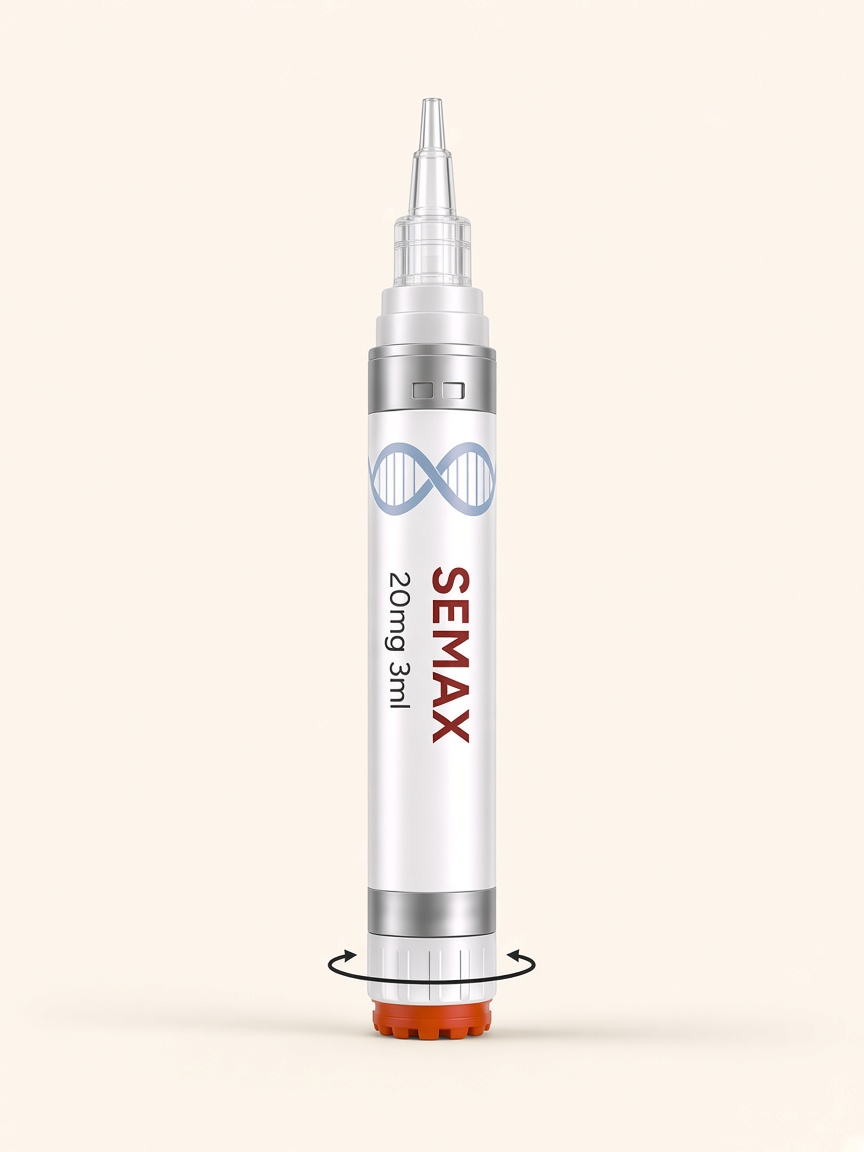
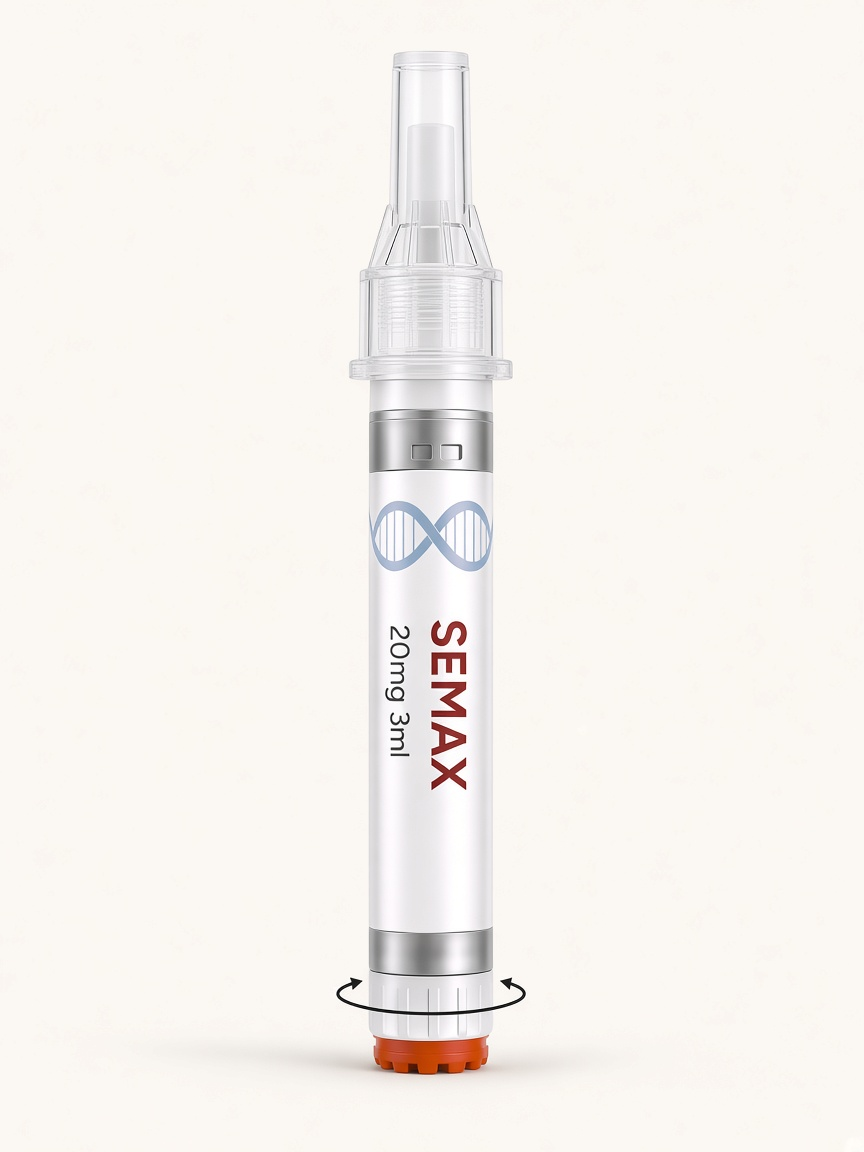
Match the pen tip to the covered and exposed photos.
The tip stays covered while it is installed and while the dial turns. The needle is exposed only when the research dose is dispensed.

Changed region(s): [[0.4062, 0.0312, 0.5938, 0.6875], [0.2812, 0.6875, 0.75, 0.9375]]

diff --git a/research/peptide-pen-guide.html b/research/peptide-pen-guide.html
@@ -56,7 +56,7 @@
       "@type": "HowToStep",
       "position": 3,
       "name": "Install the pen tip",
-      "text": "Install the pen tip. Keep the pen facing up.",
+      "text": "Install the pen tip with the plastic cover on the needle. Keep the pen facing up.",
       "image": "https://www.palmbeach-vitality.com/assets/pen-guide/pen-step-3.jpg"
     },
     {
@@ -70,7 +70,7 @@
       "@type": "HowToStep",
       "position": 5,
       "name": "Dispense the research dose",
-      "text": "Dispense the research dose. Keep the pen facing up.",
+      "text": "Take the plastic cover off so the needle is exposed, then dispense the research dose. Keep the pen facing up.",
       "image": "https://www.palmbeach-vitality.com/assets/pen-guide/pen-step-5.jpg"
     },
     {
@@ -199,15 +199,15 @@
         </li>
 
         <li class="bg-white rounded-2xl border border-sand-200 overflow-hidden">
-          <img src="../assets/pen-guide/pen-step-3.jpg" alt="A pen tip aligned above the open top of the Semax research pen, which is facing up." width="864" height="1152" class="w-full max-w-md mx-auto h-auto" loading="lazy">
+          <img src="../assets/pen-guide/pen-step-3.jpg" alt="A clear pen tip with the plastic cover on the needle, lined up above the Semax research pen." width="864" height="1152" class="w-full max-w-md mx-auto h-auto" loading="lazy">
           <div class="p-6">
             <h2 class="text-2xl font-semibold text-navy-900">3. Install the pen tip</h2>
-            <p class="mt-3">Install the pen tip on the top. Keep the pen facing up.</p>
+            <p class="mt-3">Install the pen tip on the top. Leave the plastic cover on the needle. Keep the pen facing up.</p>
           </div>
         </li>
 
         <li class="bg-white rounded-2xl border border-sand-200 overflow-hidden">
-          <img src="../assets/pen-guide/pen-step-4.jpg" alt="The dose dial at the orange end of the Semax research pen, with arrows showing it turning. The pen tip points up." width="864" height="1152" class="w-full max-w-md mx-auto h-auto" loading="lazy">
+          <img src="../assets/pen-guide/pen-step-4.jpg" alt="The covered pen tip installed on the Semax research pen while the dose dial turns." width="864" height="1152" class="w-full max-w-md mx-auto h-auto" loading="lazy">
           <div class="p-6">
             <h2 class="text-2xl font-semibold text-navy-900">4. Select the amount of units</h2>
             <p class="mt-3">Turn the dial at the orange end. Each click is 1 unit. On the 3 mL pens, one click delivers 0.01 mL, and one dispense runs from 1 to 60 units. The peptide in that unit is printed on the pen. It is not the same from one compound to the next.</p>
@@ -215,15 +215,15 @@
         </li>
 
         <li class="bg-white rounded-2xl border border-sand-200 overflow-hidden">
-          <img src="../assets/pen-guide/pen-step-5.jpg" alt="The Semax research pen facing up, tip installed, with a droplet leaving the tip." width="864" height="1152" class="w-full max-w-md mx-auto h-auto" loading="lazy">
+          <img src="../assets/pen-guide/pen-step-5.jpg" alt="The Semax research pen facing up with the needle exposed and a droplet at the needle." width="864" height="1152" class="w-full max-w-md mx-auto h-auto" loading="lazy">
           <div class="p-6">
             <h2 class="text-2xl font-semibold text-navy-900">5. Dispense the research dose</h2>
-            <p class="mt-3">Press the orange button to dispense the research dose. Keep the pen facing up.</p>
+            <p class="mt-3">Take the plastic cover off so the needle is exposed. Press the orange button to dispense the research dose. Keep the pen facing up.</p>
           </div>
         </li>
 
         <li class="bg-white rounded-2xl border border-sand-200 overflow-hidden">
-          <img src="../assets/pen-guide/pen-step-6.jpg" alt="The pen tip lifted off the Semax research pen. The pen still points up." width="864" height="1152" class="w-full max-w-md mx-auto h-auto" loading="lazy">
+          <img src="../assets/pen-guide/pen-step-6.jpg" alt="The exposed pen tip lifted off the Semax research pen. The pen still points up." width="864" height="1152" class="w-full max-w-md mx-auto h-auto" loading="lazy">
           <div class="p-6">
             <h2 class="text-2xl font-semibold text-navy-900">6. Remove the pen tip</h2>
             <p class="mt-3">Remove the pen tip while the pen is still pointing up. Put the used tip in a sharps container.</p>
